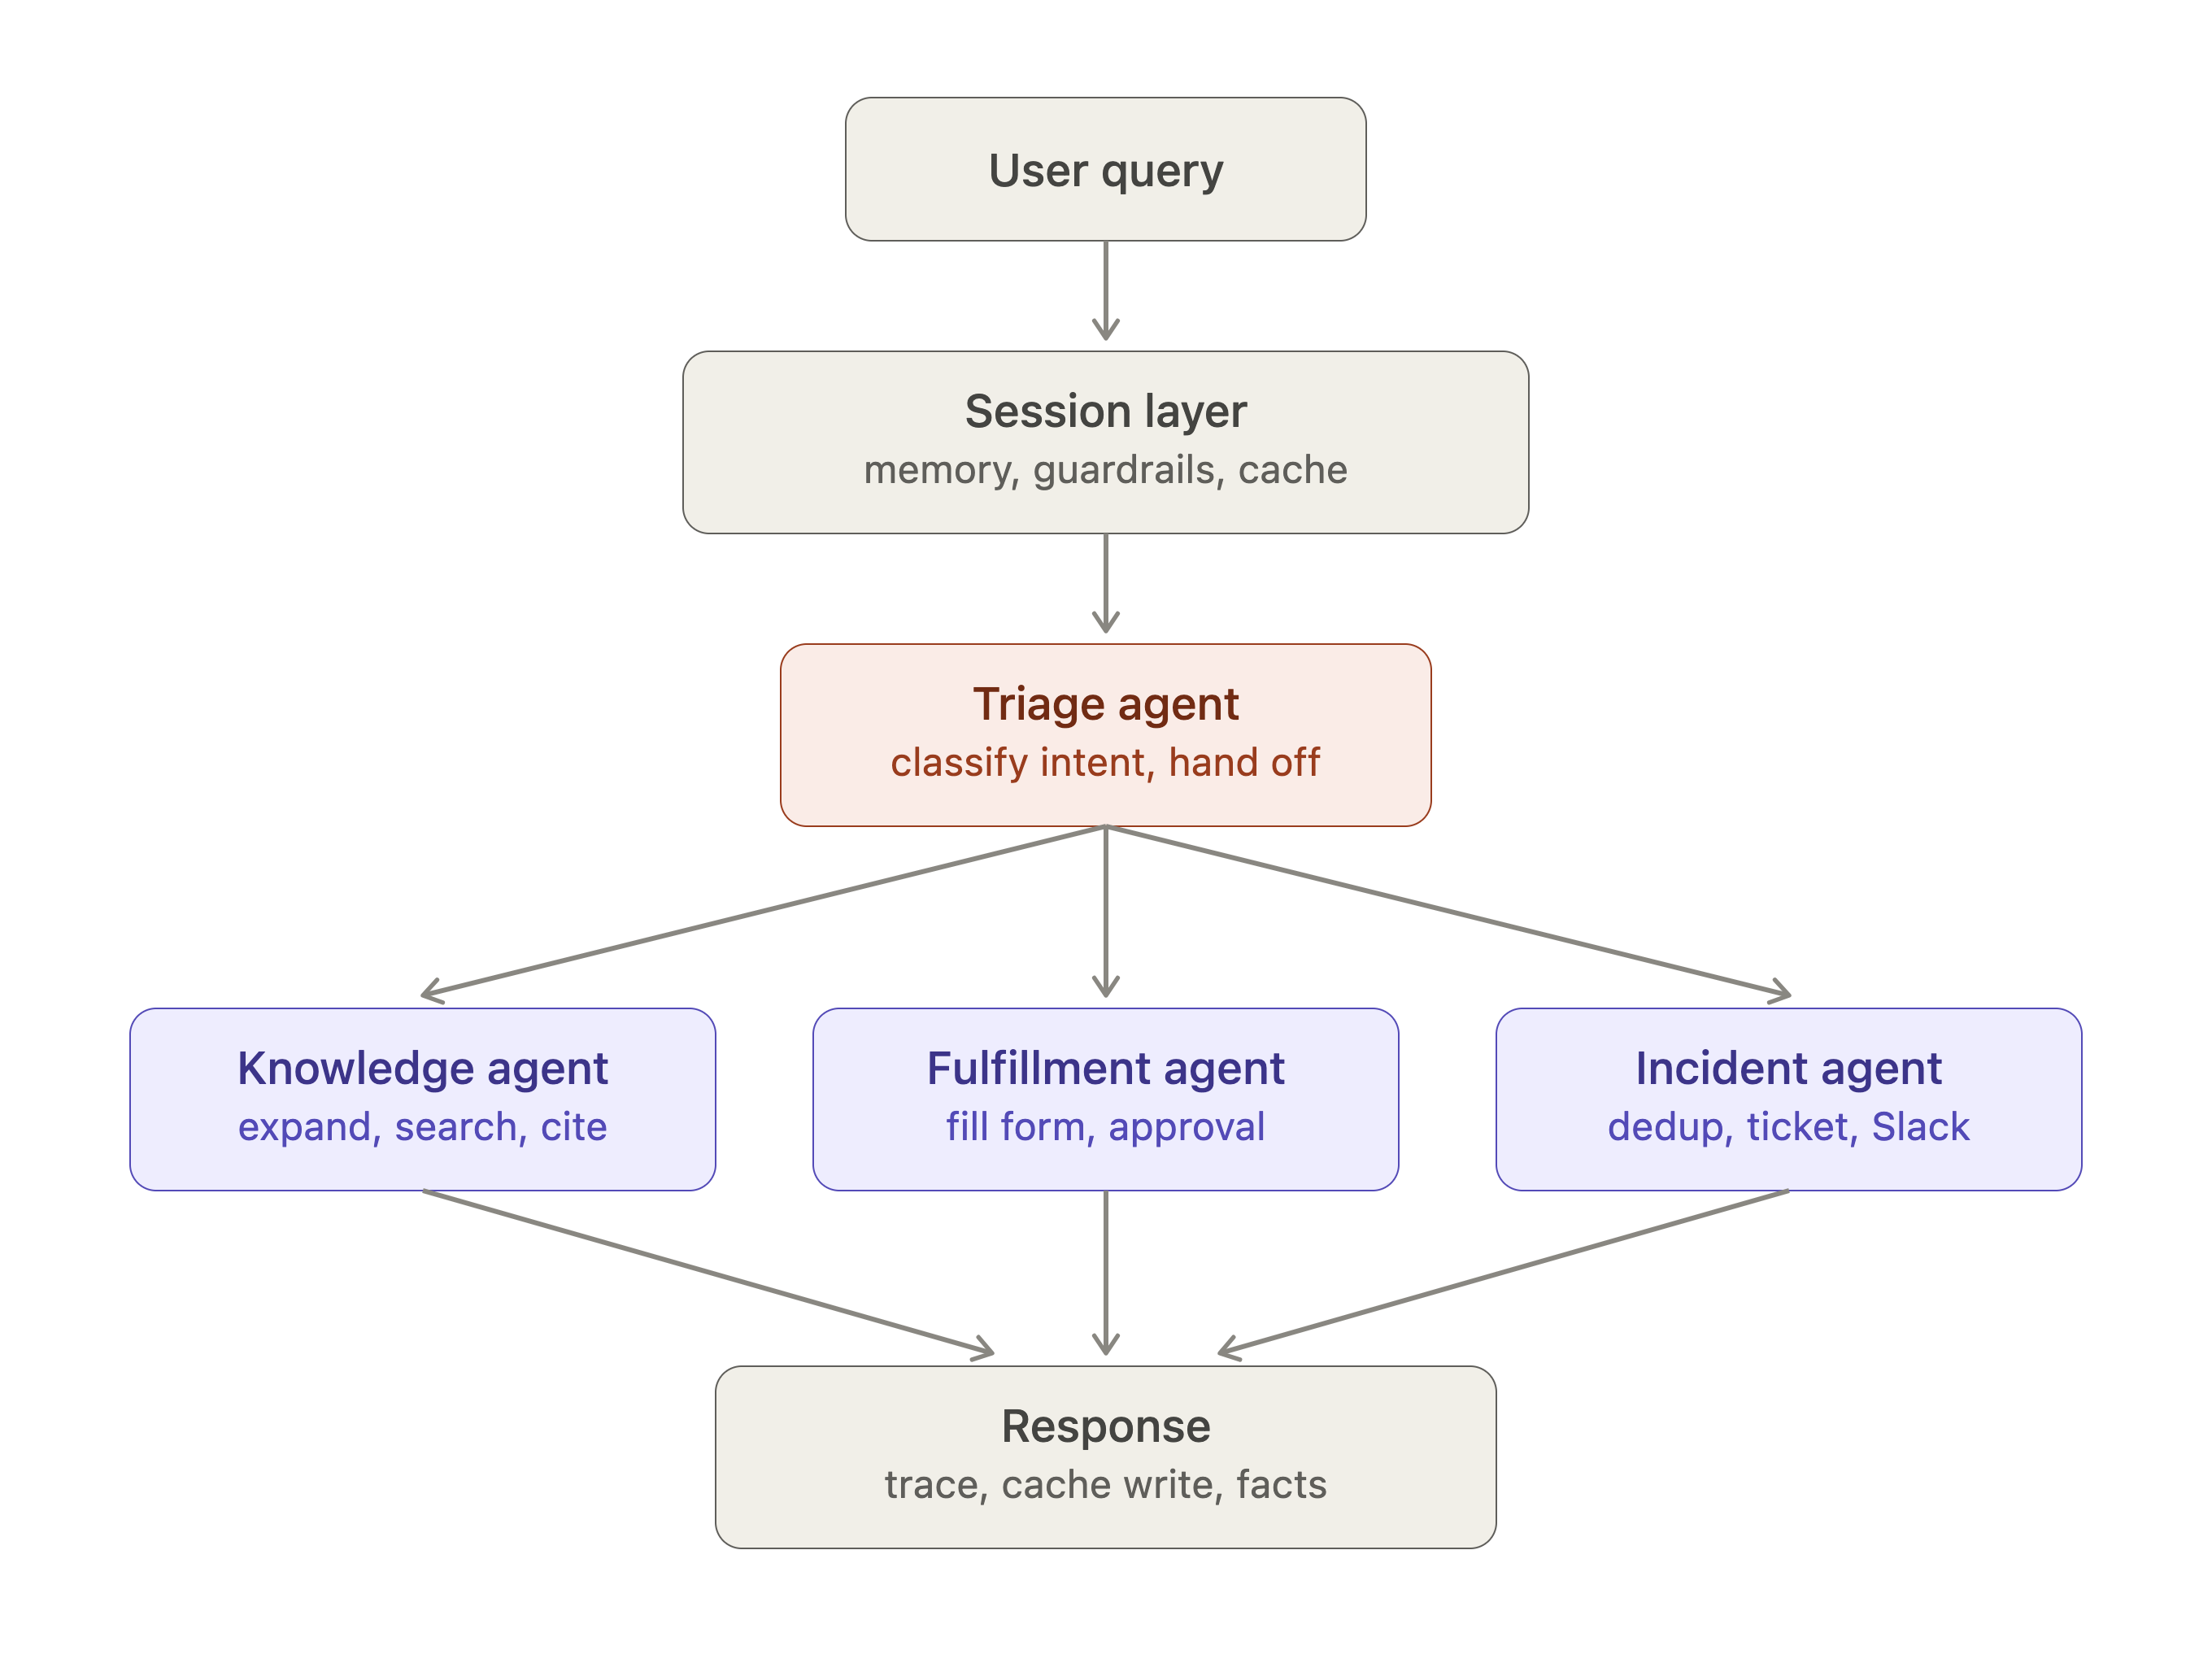
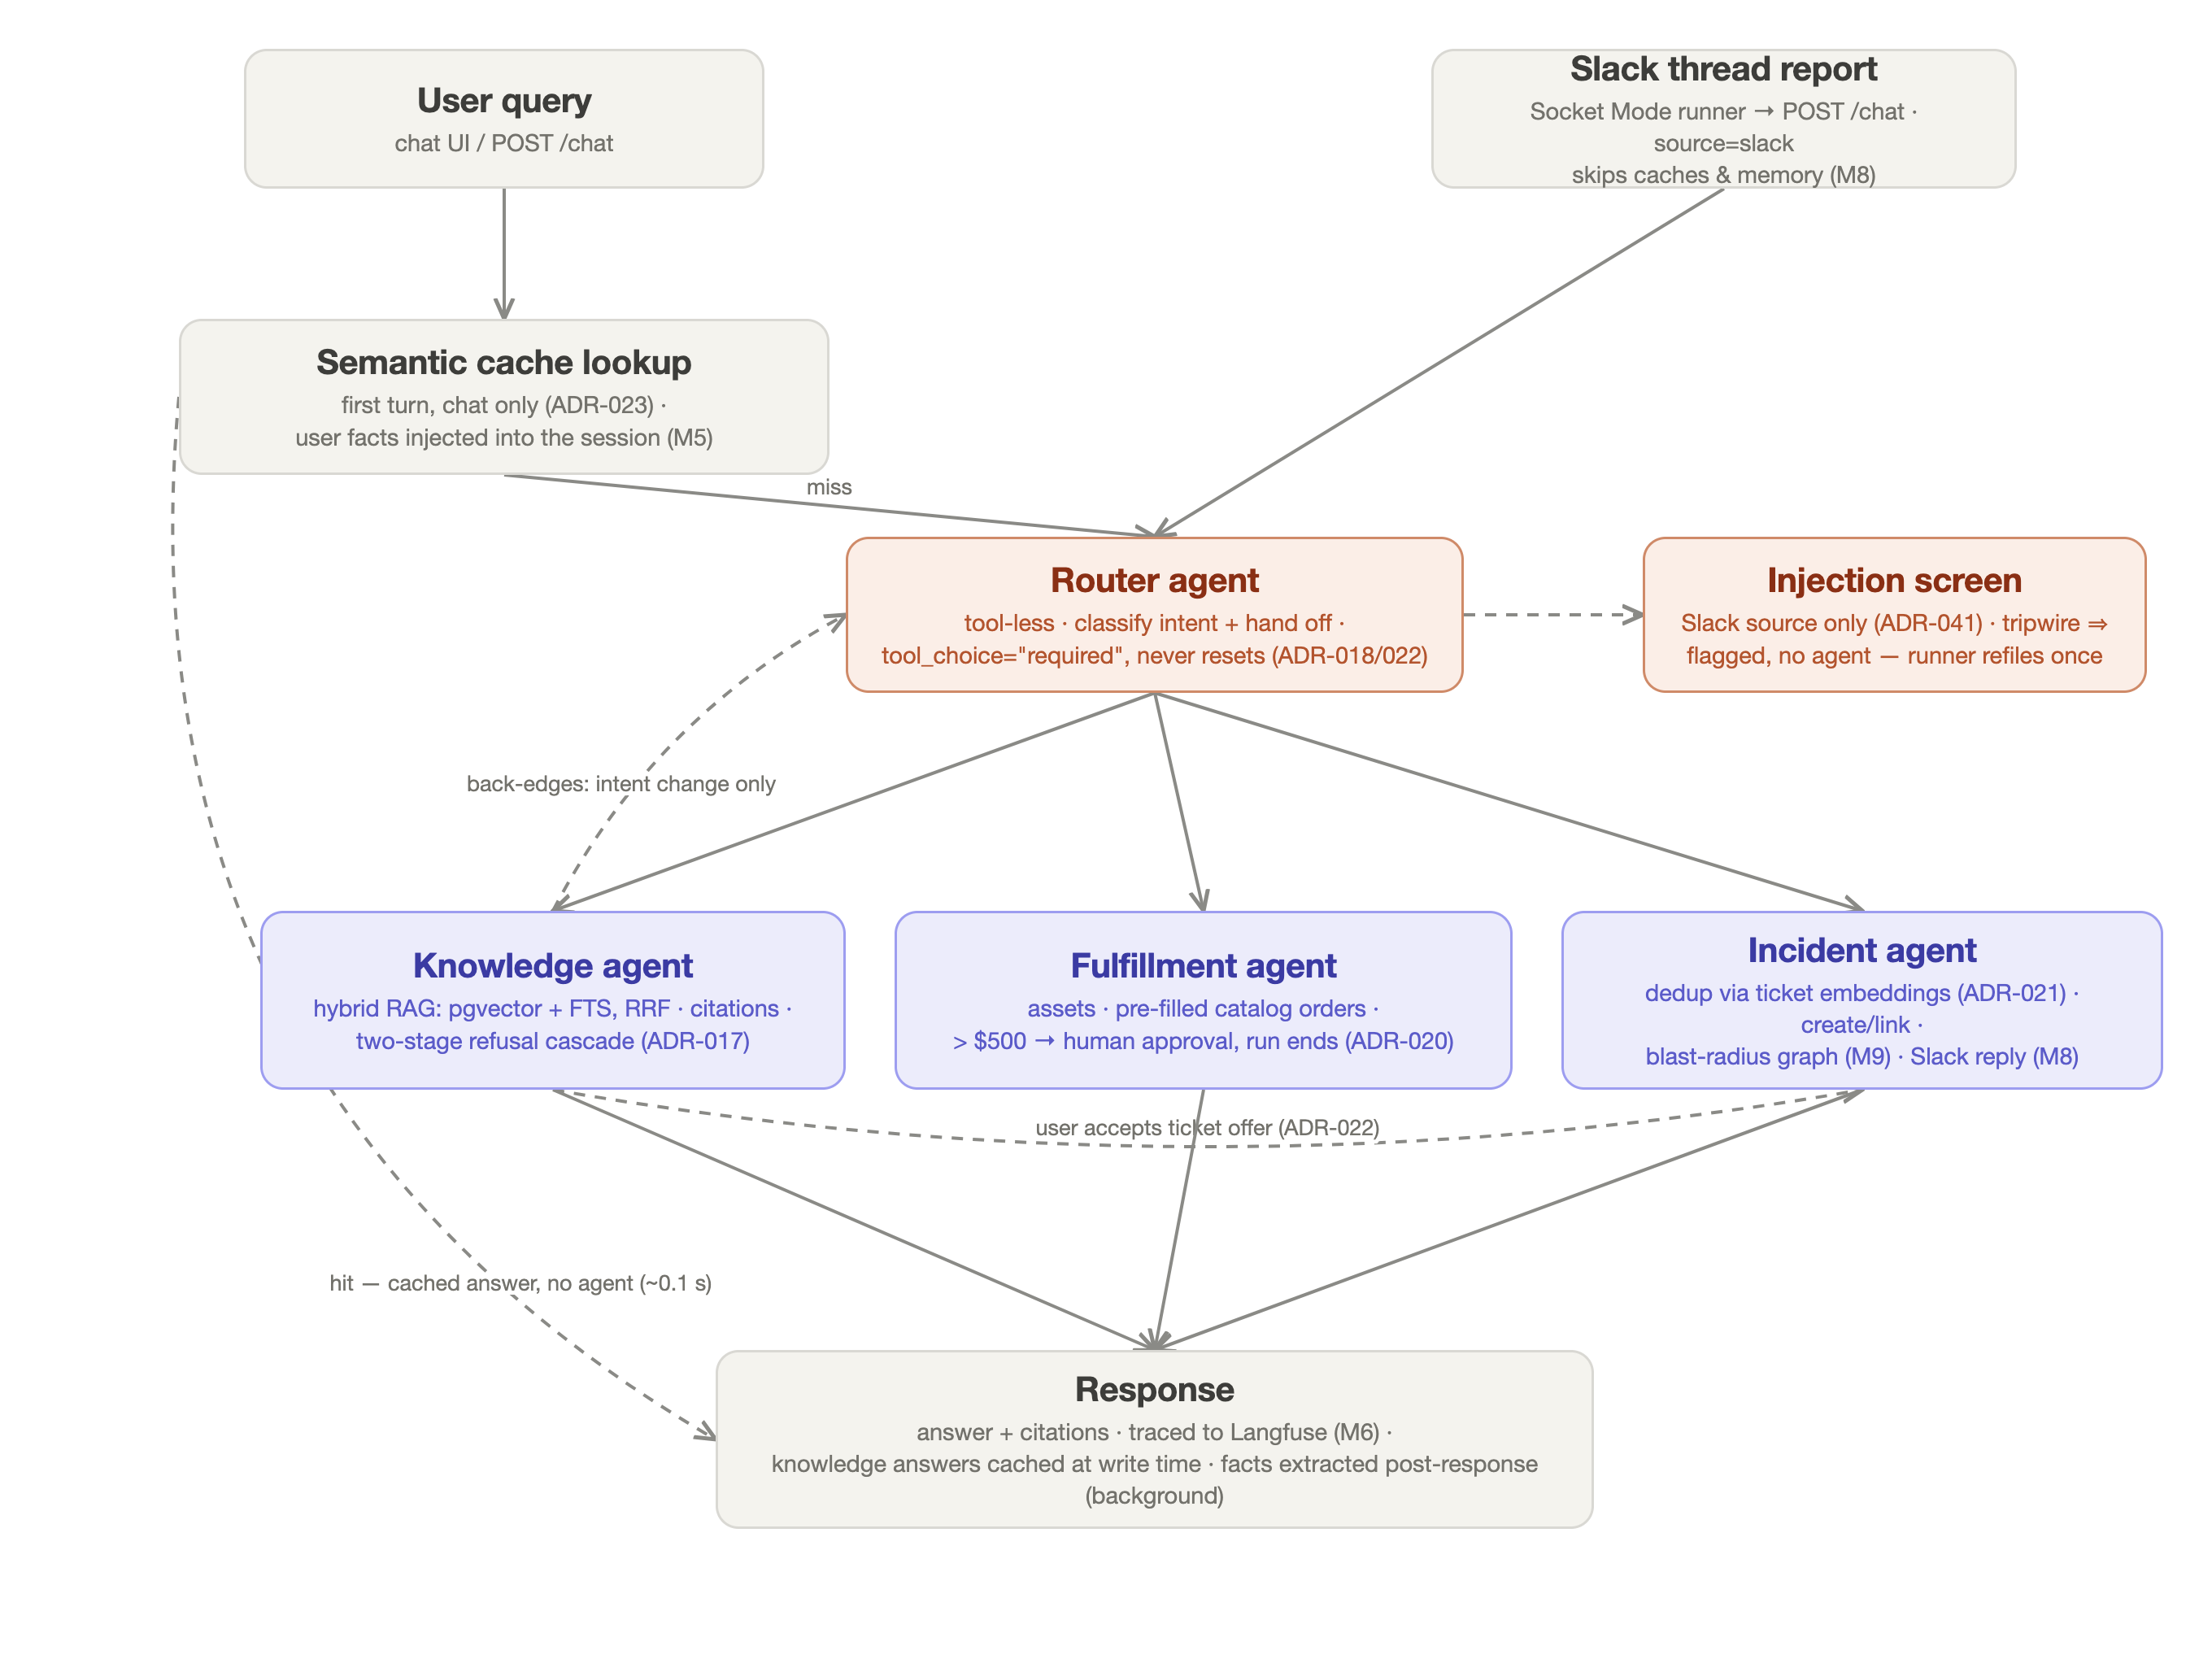
Refresh the two architecture diagrams to the finished system; commit their HTML sources
The Jul 3 sketches predated every milestone. Corrected: triage→router rename;
ADR-022 cross-agent edges + the semantic-cache short-circuit path; injection
screen shown on the router, Slack-gated (ADR-041); sessions in Postgres, not
Redis (M5, ADR-030); M8 surfaces added (approvals UI, Slack runner, MCP server
beside the API hitting the same plain tools); Neo4j demoted to optional synced
projection (ADR-037); Langfuse box states the real M6 mechanism.

Each PNG now has a committed HTML source next to it (database_erd.html
pattern); the headless-Chrome render command is in each file's header comment.

diff --git a/design/itsm_ai_system_architecture.html b/design/itsm_ai_system_architecture.html
@@ -1,0 +1,167 @@
+<!-- Source for itsm_ai_system_architecture.png (M6 closeout refresh — the Jul 3 sketch
+     predated every milestone). Render:
+       "/Applications/Google Chrome.app/Contents/MacOS/Google Chrome" --headless=new \
+         --screenshot=design/itsm_ai_system_architecture.png --window-size=1360,1460 \
+         --force-device-scale-factor=2 --hide-scrollbars --default-background-color=FFFFFFFF \
+         file://$PWD/design/itsm_ai_system_architecture.html
+     Corrections this refresh bakes in: sessions live in POSTGRES not Redis (M5, ADR-030);
+     M8 surfaces exist (approvals UI, Slack runner, MCP server beside — not behind — the API);
+     Neo4j is an OPTIONAL synced projection, the CMDB graph itself is Postgres (ADR-037);
+     "triage" is the router; Langfuse is wired for real (M6, ADR-042). -->
+<meta charset="utf-8">
+<style>
+  body { margin: 0; background: #ffffff;
+         font-family: "Anthropic Sans", -apple-system, "Helvetica Neue", sans-serif; }
+  #canvas { position: relative; width: 1360px; height: 1460px; }
+  svg#wires { position: absolute; inset: 0; width: 100%; height: 100%; z-index: 0; }
+  .node { position: absolute; box-sizing: border-box; z-index: 1; border-radius: 14px;
+          border: 1.5px solid; padding: 12px 18px; text-align: center;
+          display: flex; flex-direction: column; justify-content: center; }
+  .node b { font-size: 20px; letter-spacing: -0.01em; }
+  .node span { font-size: 14px; line-height: 1.35; margin-top: 4px; }
+  .neutral { background: #f4f3ee; border-color: #d9d8d3; }
+  .neutral b { color: #3d3d3a; } .neutral span { color: #73726c; }
+  .accent  { background: #fbeee7; border-color: #cf8a68; }
+  .accent b { color: #8a2f14; } .accent span { color: #b3542e; }
+  .purple  { background: #ececfb; border-color: #9d9df0; }
+  .purple b { color: #3b3ba3; } .purple span { color: #5b5bc9; }
+  .green   { background: #e4f5ec; border-color: #83c9a7; }
+  .green b { color: #17593a; } .green span { color: #2e7d54; }
+  #agentlayer { position: absolute; z-index: 0; border: 1.5px dashed #c9c8c2; border-radius: 18px; }
+  #agentlayer label { position: absolute; top: 12px; width: 100%; text-align: center;
+                      font-size: 15px; color: #8a8a86; }
+</style>
+
+<div id="canvas">
+  <svg id="wires"></svg>
+
+  <!-- clients -->
+  <div class="node neutral" id="chatui" style="left:40px; top:30px; width:290px; height:92px;">
+    <b>Chat UI</b><span>Streamlit :8501 · session per browser,<br>acting-user picker</span></div>
+  <div class="node neutral" id="approvals" style="left:370px; top:30px; width:290px; height:92px;">
+    <b>Approvals UI</b><span>Streamlit :8502 · human approve/reject<br>for orders &gt; $500 (M2 HITL)</span></div>
+  <div class="node neutral" id="slackrunner" style="left:700px; top:30px; width:300px; height:92px;">
+    <b>Slack runner</b><span>Socket Mode (M8) · pure HTTP client of
+    /chat · fail-closed email→user identity</span></div>
+  <div class="node neutral" id="mcpclients" style="left:1040px; top:30px; width:280px; height:92px;">
+    <b>MCP clients</b><span>Claude Desktop et al.<br>via mcp-remote + bearer token</span></div>
+
+  <!-- backend -->
+  <div class="node neutral" id="api" style="left:150px; top:210px; width:700px; height:100px;">
+    <b>FastAPI backend</b><span>/chat · /approvals · /identity/resolve · /cache/stats — identity from
+    ChatContext, never an LLM arg (ADR-039) ·<br>semantic-cache pre-check before any agent (chat-only, ADR-023) · Postgres-backed sessions (M5)</span></div>
+  <div class="node neutral" id="mcpserver" style="left:990px; top:210px; width:330px; height:100px;">
+    <b>MCP server :8090</b><span>separate process (M8) · bearer token → acting user ·
+    read/create-only tool surface (ADR-040)</span></div>
+
+  <!-- agent layer -->
+  <div id="agentlayer" style="left:100px; top:380px; width:800px; height:400px;">
+    <label>Agent layer — OpenAI Agents SDK · gpt-5-mini via LiteLLM</label></div>
+  <div class="node accent" id="router" style="left:310px; top:430px; width:380px; height:92px;">
+    <b>Router agent</b><span>tool-less · classifies + hands off (ADR-003) ·<br>Slack-gated injection guardrail (ADR-041)</span></div>
+  <div class="node purple" id="knowledge" style="left:130px; top:620px; width:230px; height:110px;">
+    <b>Knowledge</b><span>hybrid search,<br>citations, refusal cascade</span></div>
+  <div class="node purple" id="fulfillment" style="left:390px; top:620px; width:230px; height:110px;">
+    <b>Fulfillment</b><span>orders + HITL<br>approvals</span></div>
+  <div class="node purple" id="incident" style="left:650px; top:620px; width:230px; height:110px;">
+    <b>Incident</b><span>tickets, dedup,<br>impact graph, Slack reply</span></div>
+
+  <!-- tools -->
+  <div class="node neutral" id="tools" style="left:280px; top:860px; width:640px; height:96px;">
+    <b>Deterministic tools — the only DB path (ADR-004)</b><span>search · tickets · orders · assets ·
+    dependency graph (M9) · Slack reply (M8) ·<br>identity/ownership guards = the real security backstop (ADR-041)</span></div>
+
+  <!-- data stores -->
+  <div class="node green" id="postgres" style="left:60px; top:1050px; width:400px; height:110px;">
+    <b>Postgres + pgvector</b><span>relational + vectors + FTS in one DB ·<br>agent sessions (M5, ADR-030) ·
+    CMDB graph: cis + dependencies, recursive CTE (M9)</span></div>
+  <div class="node green" id="redis" style="left:510px; top:1050px; width:380px; height:110px;">
+    <b>Redis</b><span>embedding / semantic / response caches + hit counters (M3) ·
+    cost accumulator (M6) ·<br>degrades silently — an optimization, never a dependency</span></div>
+  <div class="node green" id="neo4j" style="left:940px; top:1050px; width:380px; height:110px;">
+    <b>Neo4j (optional)</b><span>parity-tested alternate graph backend (ADR-037) ·
+    synced projection — Postgres stays source of truth</span></div>
+
+  <!-- observability / CI -->
+  <div class="node neutral" id="langfuse" style="left:230px; top:1290px; width:420px; height:100px;">
+    <b>Langfuse</b><span>M6 (ADR-042/043): Agents SDK trace processor → spans, tags,
+    cost, eval datasets ·<br>verified no-op when keys are unset</span></div>
+  <div class="node neutral" id="gha" style="left:710px; top:1290px; width:420px; height:100px;">
+    <b>GitHub Actions</b><span>CI: lint + 161 tests + eval-subset gate (keyless) ·
+    nightly: all 7 suites ·<br>deploy workflow inert until armed (ADR-029)</span></div>
+</div>
+
+<script>
+const edges = [
+  { from: "chatui",      to: "api" },
+  { from: "approvals",   to: "api" },
+  { from: "slackrunner", to: "api",       label: "source=slack" },
+  { from: "mcpclients",  to: "mcpserver" },
+  { from: "api",         to: "router" },
+  { from: "router",      to: "knowledge" },
+  { from: "router",      to: "fulfillment" },
+  { from: "router",      to: "incident" },
+  { from: "knowledge",   to: "tools" },
+  { from: "fulfillment", to: "tools" },
+  { from: "incident",    to: "tools" },
+  { from: "mcpserver",   to: "tools",     fromSide: "bottom", toSide: "right",
+    bend: -60, label: "same plain functions — no agents, never /chat" },
+  { from: "tools",       to: "postgres" },
+  { from: "tools",       to: "redis" },
+  { from: "tools",       to: "neo4j",     dash: true, label: "GRAPH_BACKEND=neo4j" },
+  { from: "postgres",    to: "neo4j",     fromSide: "bottom", toSide: "bottom",
+    bend: 70, dash: true, label: "python -m graph.sync_neo4j (idempotent projection)" },
+  { from: "router",      to: "langfuse",  fromSide: "left", toSide: "top",
+    bend: 150, dash: true, labelT: 0.92, label: "every agent run → spans (background export)" },
+];
+
+const svg = document.getElementById("wires");
+const NS = "http://www.w3.org/2000/svg";
+svg.innerHTML = `<defs><marker id="arr" viewBox="0 0 10 10" refX="9" refY="5"
+  markerWidth="7" markerHeight="7" orient="auto-start-reverse">
+  <path d="M 0 1 L 9 5 L 0 9" fill="none" stroke="#8a8a86" stroke-width="1.8"/></marker></defs>`;
+
+function anchor(id, side) {
+  const r = document.getElementById(id);
+  const x = r.offsetLeft, y = r.offsetTop, w = r.offsetWidth, h = r.offsetHeight;
+  if (side === "top")    return [x + w / 2, y];
+  if (side === "bottom") return [x + w / 2, y + h];
+  if (side === "left")   return [x, y + h / 2];
+  if (side === "right")  return [x + w, y + h / 2];
+}
+function autoSides(a, b) {
+  const ra = document.getElementById(a), rb = document.getElementById(b);
+  return (rb.offsetTop >= ra.offsetTop + ra.offsetHeight) ? ["bottom", "top"] :
+         (ra.offsetTop >= rb.offsetTop + rb.offsetHeight) ? ["top", "bottom"] :
+         (ra.offsetLeft < rb.offsetLeft) ? ["right", "left"] : ["left", "right"];
+}
+for (const e of edges) {
+  const [autoFrom, autoTo] = autoSides(e.from, e.to);
+  const p1 = anchor(e.from, e.fromSide || autoFrom);
+  const p2 = anchor(e.to,   e.toSide   || autoTo);
+  const mx = (p1[0] + p2[0]) / 2, my = (p1[1] + p2[1]) / 2;
+  const dx = p2[0] - p1[0], dy = p2[1] - p1[1], len = Math.hypot(dx, dy) || 1;
+  const bend = e.bend || 0;
+  const cx = mx + (-dy / len) * bend, cy = my + (dx / len) * bend;
+  const path = document.createElementNS(NS, "path");
+  path.setAttribute("d", `M ${p1[0]} ${p1[1]} Q ${cx} ${cy} ${p2[0]} ${p2[1]}`);
+  path.setAttribute("fill", "none");
+  path.setAttribute("stroke", "#8a8a86");
+  path.setAttribute("stroke-width", "2");
+  path.setAttribute("marker-end", "url(#arr)");
+  if (e.dash) path.setAttribute("stroke-dasharray", "7 6");
+  svg.appendChild(path);
+  if (e.label) {
+    const t = document.createElementNS(NS, "text");
+    const tt = e.labelT ?? 0.5, u = 1 - tt;
+    const lx = u * u * p1[0] + 2 * u * tt * cx + tt * tt * p2[0];
+    const ly = u * u * p1[1] + 2 * u * tt * cy + tt * tt * p2[1];
+    t.setAttribute("x", lx); t.setAttribute("y", ly - 7);
+    t.setAttribute("text-anchor", "middle");
+    t.setAttribute("style",
+      "font-size:13px; fill:#73726c; paint-order:stroke; stroke:#ffffff; stroke-width:5px;");
+    t.textContent = e.label;
+    svg.appendChild(t);
+  }
+}
+</script>

diff --git a/design/agent_handoff_workflow.html b/design/agent_handoff_workflow.html
@@ -1,0 +1,125 @@
+<!-- Source for agent_handoff_workflow.png (M6 closeout refresh — the Jul 3 sketch predated
+     every milestone). Render:
+       "/Applications/Google Chrome.app/Contents/MacOS/Google Chrome" --headless=new \
+         --screenshot=design/agent_handoff_workflow.png --window-size=1360,1020 \
+         --force-device-scale-factor=2 --hide-scrollbars --default-background-color=FFFFFFFF \
+         file://$PWD/design/agent_handoff_workflow.html
+     What it must stay true to (the test-pinned graph, ADR-003/017/020/022/023/041):
+     router renamed from "triage" · semantic-cache short-circuit before any agent ·
+     knowledge→incident edge + specialist→router back-edges · slack-gated injection screen. -->
+<meta charset="utf-8">
+<style>
+  body { margin: 0; background: #ffffff;
+         font-family: "Anthropic Sans", -apple-system, "Helvetica Neue", sans-serif; }
+  #canvas { position: relative; width: 1360px; height: 1020px; }
+  svg#wires { position: absolute; inset: 0; width: 100%; height: 100%; z-index: 0; }
+  .node { position: absolute; box-sizing: border-box; z-index: 1; border-radius: 14px;
+          border: 1.5px solid; padding: 14px 20px; text-align: center;
+          display: flex; flex-direction: column; justify-content: center; }
+  .node b { font-size: 21px; letter-spacing: -0.01em; }
+  .node span { font-size: 14.5px; line-height: 1.35; margin-top: 4px; }
+  .neutral { background: #f4f3ee; border-color: #d9d8d3; }
+  .neutral b { color: #3d3d3a; } .neutral span { color: #73726c; }
+  .accent  { background: #fbeee7; border-color: #cf8a68; }
+  .accent b { color: #8a2f14; } .accent span { color: #b3542e; }
+  .purple  { background: #ececfb; border-color: #9d9df0; }
+  .purple b { color: #3b3ba3; } .purple span { color: #5b5bc9; }
+</style>
+
+<div id="canvas">
+  <svg id="wires"></svg>
+
+  <div class="node neutral" id="user"  style="left:150px;  top:30px;  width:320px; height:86px;">
+    <b>User query</b><span>chat UI / POST /chat</span></div>
+  <div class="node neutral" id="slack" style="left:880px; top:30px;  width:360px; height:86px;">
+    <b>Slack thread report</b><span>Socket Mode runner → POST /chat · source=slack<br>skips caches &amp; memory (M8)</span></div>
+
+  <div class="node neutral" id="cache" style="left:110px;  top:196px; width:400px; height:96px;">
+    <b>Semantic cache lookup</b><span>first turn, chat only (ADR-023) ·<br>user facts injected into the session (M5)</span></div>
+
+  <div class="node accent" id="router" style="left:520px; top:330px; width:380px; height:96px;">
+    <b>Router agent</b><span>tool-less · classify intent + hand off ·<br>tool_choice="required", never resets (ADR-018/022)</span></div>
+  <div class="node accent" id="guard" style="left:1010px; top:330px; width:310px; height:96px;">
+    <b>Injection screen</b><span>Slack source only (ADR-041) · tripwire ⇒<br>flagged, no agent — runner refiles once</span></div>
+
+  <div class="node purple" id="knowledge" style="left:160px; top:560px; width:360px; height:110px;">
+    <b>Knowledge agent</b><span>hybrid RAG: pgvector + FTS, RRF · citations ·<br>two-stage refusal cascade (ADR-017)</span></div>
+  <div class="node purple" id="fulfillment" style="left:550px; top:560px; width:380px; height:110px;">
+    <b>Fulfillment agent</b><span>assets · pre-filled catalog orders ·<br>&gt; $500 → human approval, run ends (ADR-020)</span></div>
+  <div class="node purple" id="incident" style="left:960px; top:560px; width:370px; height:110px;">
+    <b>Incident agent</b><span>dedup via ticket embeddings (ADR-021) · create/link ·<br>blast-radius graph (M9) · Slack reply (M8)</span></div>
+
+  <div class="node neutral" id="response" style="left:440px; top:830px; width:540px; height:110px;">
+    <b>Response</b><span>answer + citations · traced to Langfuse (M6) ·<br>knowledge answers cached at write time · facts extracted post-response (background)</span></div>
+</div>
+
+<script>
+const edges = [
+  { from: "user",        to: "cache",       label: "" },
+  { from: "slack",       to: "router",      label: "" },
+  { from: "cache",       to: "router",      label: "miss" },
+  { from: "cache",       to: "response",    fromSide: "left", toSide: "left",
+    bend: 230, dash: true, labelT: 0.82, label: "hit — cached answer, no agent (~0.1 s)" },
+  { from: "router",      to: "guard",       fromSide: "right", toSide: "left", dash: true, label: "" },
+  { from: "router",      to: "knowledge",   label: "" },
+  { from: "router",      to: "fulfillment", label: "" },
+  { from: "router",      to: "incident",    label: "" },
+  { from: "knowledge",   to: "incident",    fromSide: "bottom", toSide: "bottom",
+    bend: 70, dash: true, label: "user accepts ticket offer (ADR-022)" },
+  { from: "knowledge",   to: "router",      fromSide: "top", toSide: "left",
+    bend: -40, dash: true, labelT: 0.3, label: "back-edges: intent change only" },
+  { from: "knowledge",   to: "response",    label: "" },
+  { from: "fulfillment", to: "response",    label: "" },
+  { from: "incident",    to: "response",    label: "" },
+];
+
+const svg = document.getElementById("wires");
+const NS = "http://www.w3.org/2000/svg";
+svg.innerHTML = `<defs><marker id="arr" viewBox="0 0 10 10" refX="9" refY="5"
+  markerWidth="7" markerHeight="7" orient="auto-start-reverse">
+  <path d="M 0 1 L 9 5 L 0 9" fill="none" stroke="#8a8a86" stroke-width="1.8"/></marker></defs>`;
+
+function anchor(id, side) {
+  const r = document.getElementById(id);
+  const x = r.offsetLeft, y = r.offsetTop, w = r.offsetWidth, h = r.offsetHeight;
+  if (side === "top")    return [x + w / 2, y];
+  if (side === "bottom") return [x + w / 2, y + h];
+  if (side === "left")   return [x, y + h / 2];
+  if (side === "right")  return [x + w, y + h / 2];
+}
+function autoSides(a, b) {
+  const ra = document.getElementById(a), rb = document.getElementById(b);
+  return (rb.offsetTop >= ra.offsetTop + ra.offsetHeight) ? ["bottom", "top"] :
+         (ra.offsetTop >= rb.offsetTop + rb.offsetHeight) ? ["top", "bottom"] :
+         (ra.offsetLeft < rb.offsetLeft) ? ["right", "left"] : ["left", "right"];
+}
+for (const e of edges) {
+  const [autoFrom, autoTo] = autoSides(e.from, e.to);
+  const p1 = anchor(e.from, e.fromSide || autoFrom);
+  const p2 = anchor(e.to,   e.toSide   || autoTo);
+  const mx = (p1[0] + p2[0]) / 2, my = (p1[1] + p2[1]) / 2;
+  const dx = p2[0] - p1[0], dy = p2[1] - p1[1], len = Math.hypot(dx, dy) || 1;
+  const bend = e.bend || 0;
+  const cx = mx + (-dy / len) * bend, cy = my + (dx / len) * bend;
+  const path = document.createElementNS(NS, "path");
+  path.setAttribute("d", `M ${p1[0]} ${p1[1]} Q ${cx} ${cy} ${p2[0]} ${p2[1]}`);
+  path.setAttribute("fill", "none");
+  path.setAttribute("stroke", "#8a8a86");
+  path.setAttribute("stroke-width", "2");
+  path.setAttribute("marker-end", "url(#arr)");
+  if (e.dash) path.setAttribute("stroke-dasharray", "7 6");
+  svg.appendChild(path);
+  if (e.label) {
+    const t = document.createElementNS(NS, "text");
+    const tt = e.labelT ?? 0.5, u = 1 - tt;
+    const lx = u * u * p1[0] + 2 * u * tt * cx + tt * tt * p2[0];
+    const ly = u * u * p1[1] + 2 * u * tt * cy + tt * tt * p2[1];
+    t.setAttribute("x", lx); t.setAttribute("y", ly - 7);
+    t.setAttribute("text-anchor", "middle");
+    t.setAttribute("style",
+      "font-size:13.5px; fill:#73726c; paint-order:stroke; stroke:#ffffff; stroke-width:5px;");
+    t.textContent = e.label;
+    svg.appendChild(t);
+  }
+}
+</script>

diff --git a/CLAUDE.md b/CLAUDE.md
@@ -99,7 +99,7 @@ An AI-powered ITSM service desk (mini ServiceNow) — a **portfolio project**. A
 - **Local dev is fully set up:** `.venv` (Python 3.12) with the complete `-e ".[dev]"` install (2026-07-05: the M0-era `cryptography` Rust-build failure resolved itself once pip was current; installed with `--only-binary cryptography` as a safety net, keep that flag if reinstalling). 30 tests pass (`make test`; DB-backed ones auto-skip if Postgres is down), ruff clean — incl. `tests/test_agents.py`, fast LLM-free assertions pinning the ADR-018 config (tool_choice/prefix) + ADR-003 router-is-tool-less. `.env` exists with a working `OPENAI_API_KEY` (model vars are blank → config defaults: gpt-5-mini + text-embedding-3-small). Docker Postgres+Redis running; DB migrated + seeded + ingested.
 - Repo is live at **github.com/lifenyan/agent-desk** (PUBLIC), branch `main`, first 2 commits pushed 2026-07-07 (M0–M2, M3) by the user. `ignore/` + `.env` verified excluded. `gh` CLI installed + authenticated as `lifenyan`; `OPENAI_API_KEY` is set as an Actions repo secret (verified 2026-07-07).
 - Renamed from `itsm-ai` → `agentdesk`; `design/` has the diagrams; `ignore/` is git-ignored scratch (holds `LEARNING_M{0..5,8,9}.md`, `M{0..9}_PROMPT.md`, `refusal_threshold_sweep.md`, and `ignore/tem/` with the M9 graph-baseline evidence `m9_graph_baseline_run{1,2,3}.{json,log}`, the M2 evidence scripts `m2_dedup_sweep.py` / `m2_throwaway_react.py` / `m2_graph_smoke.py` / `m2_e2e_acceptance.py`, the M3 evidence `m3_semantic_cache_demo.py` + `m3_demo_output.txt`, the M5 live-loop evidence `m5_memory_smoke.py`, and the M8 evidence `m8_mcp_smoke.py` + `m8_offtopic_measurement.py` (+ saved output) + `m8_slack_baseline_run{1..7}.{json,log}` + `m8_e2e_regression.{json,log}`; the M2/M3 acceptance scripts are formalized as the M4 e2e/dedup suites, the M5 smoke as the e2e memory/restart flows. The ADR-019 sqlite session file was DELETED in M5 — sessions live in Postgres now). `LEARNING_M1.md` §10–14 = Agents-SDK Q&A; `LEARNING_M{2..5}.md` = the per-milestone "what you should understand" writeups.
-- `DECISIONS.md` has **45** ADRs (M6 added: ADR-042 Langfuse Cloud + SDK-trace-processor bridge + empty-keys no-op, ADR-043 tag schema/session join/cache-hit traces/eval datasets, ADR-044 CACHES_DISABLED A/B + slice choice, ADR-045 Redis-accumulated per-conversation cost alert. M8 added: ADR-038 Socket Mode + runner-as-pure-HTTP-client, ADR-039 fail-closed external identity + thread coords as trusted context + the sink seam, ADR-040 one plain layer/two adapters + read-create-only MCP surface, ADR-041 layered guardrails — tool checks as the real backstop, flag-then-refile, off-topic screen measured and not wired. M9 added: ADR-035 CMDB modeling — generalized `cis` + `dependencies`, teams-as-nodes; ADR-036 the fair three-way comparison design + measured results; ADR-037 backend contract, Postgres default, when Neo4j earns its cost). Before M9 it had **34** ADRs (M1: ADR-016 chunking/ingest, ADR-017 two-stage refusal cascade, ADR-018 deterministic handoff via tool_choice; M2: ADR-019 session stopgap, ADR-020 hand-rolled HITL, ADR-021 dedup cascade, ADR-022 graph assembly + router never resets tool choice; M3: ADR-023 semantic cache — write-time read-only gate, first-turn session policy, measured 0.75 threshold; ADR-024 content-hash invalidation in ingest; ADR-025 response-cache scope; M4: ADR-026 floors in thresholds.toml + deterministic subset, ADR-027 e2e through the real HTTP contract, ADR-028 dedup gray-band eval + baseline, ADR-029 inert deploy workflow; M5: ADR-030 SDK SQLAlchemySession on Postgres with Alembic-owned schema, ADR-031 fact inject-as-session-item + post-response extraction + deterministic merge, ADR-032 e2e 6→18 with load-bearing dataset order + content-restoring cleanup, ADR-033 gpt-5 judge with committed rubric, ADR-034 cost/latency from SDK usage × committed prices + committed baseline). Data spec: `design/DATA_DICTIONARY.md` + `design/database_erd.png` (source of truth, both current).
+- `DECISIONS.md` has **45** ADRs (M6 added: ADR-042 Langfuse Cloud + SDK-trace-processor bridge + empty-keys no-op, ADR-043 tag schema/session join/cache-hit traces/eval datasets, ADR-044 CACHES_DISABLED A/B + slice choice, ADR-045 Redis-accumulated per-conversation cost alert. M8 added: ADR-038 Socket Mode + runner-as-pure-HTTP-client, ADR-039 fail-closed external identity + thread coords as trusted context + the sink seam, ADR-040 one plain layer/two adapters + read-create-only MCP surface, ADR-041 layered guardrails — tool checks as the real backstop, flag-then-refile, off-topic screen measured and not wired. M9 added: ADR-035 CMDB modeling — generalized `cis` + `dependencies`, teams-as-nodes; ADR-036 the fair three-way comparison design + measured results; ADR-037 backend contract, Postgres default, when Neo4j earns its cost). Before M9 it had **34** ADRs (M1: ADR-016 chunking/ingest, ADR-017 two-stage refusal cascade, ADR-018 deterministic handoff via tool_choice; M2: ADR-019 session stopgap, ADR-020 hand-rolled HITL, ADR-021 dedup cascade, ADR-022 graph assembly + router never resets tool choice; M3: ADR-023 semantic cache — write-time read-only gate, first-turn session policy, measured 0.75 threshold; ADR-024 content-hash invalidation in ingest; ADR-025 response-cache scope; M4: ADR-026 floors in thresholds.toml + deterministic subset, ADR-027 e2e through the real HTTP contract, ADR-028 dedup gray-band eval + baseline, ADR-029 inert deploy workflow; M5: ADR-030 SDK SQLAlchemySession on Postgres with Alembic-owned schema, ADR-031 fact inject-as-session-item + post-response extraction + deterministic merge, ADR-032 e2e 6→18 with load-bearing dataset order + content-restoring cleanup, ADR-033 gpt-5 judge with committed rubric, ADR-034 cost/latency from SDK usage × committed prices + committed baseline). Data spec: `design/DATA_DICTIONARY.md` + `design/database_erd.png` (source of truth, both current). The two architecture diagrams (`design/agent_handoff_workflow.png`, `design/itsm_ai_system_architecture.png`) were refreshed at M6 closeout — the Jul 3 sketches predated every milestone (triage→router rename, missing ADR-022 cross-edges and the cache short-circuit, Redis wrongly holding sessions, no M8 surfaces, Neo4j as a peer store) — and now have committed HTML sources next to them (ERD pattern: edit HTML, re-render via the headless-Chrome command in each file's header comment).
 
 **To resume locally:** `make db-up` → (if fresh volume) `make seed && make ingest` → `alembic upgrade head` (0002 sessions, 0003 CMDB graph) → `make dev` (API :8000 + UI :8501) and `make approvals` (:8502). M8 surfaces (both optional, everything runs without them): `make mcp` (:8090; needs `MCP_TOKENS=token=email` in .env — README "MCP server" section) and `make slack` (needs the two Slack tokens per SLACK_SETUP.md + the API up). Optional Neo4j (M9 Phase 2): `docker compose up -d neo4j` → `python -m graph.sync_neo4j` → `GRAPH_BACKEND=neo4j`; everything runs without it (postgres backend is the default). M6 observability: `make metrics` prints the headline table (needs LANGFUSE keys); `make langfuse-up` boots the OPTIONAL local Langfuse (UI :3000, dev keys pk/sk-lf-agentdesk-local, login [email redacted]/langfuse-local); with keys set, every `make eval` run is traced and retrieval/routing publish Langfuse dataset runs; the caching A/B = the two-arm procedure in `scripts/ab_caching_report.py`'s docstring. `make eval` is the FULL nightly-sized run (retrieval 40 + routing 30 + e2e 18 flows + dedup + quality + graph — pre-M9 measured 33–37 min and ≈$0.42; graph adds ≈9–10 min and ≈$0.15; slack adds ≈2.5–3 min, bills inside the spawned server like e2e). Cheap loops: `--suite retrieval` (LLM-light) or `make eval-subset` (the PR gate, ≈$0.10 measured). `make ci-local` mirrors the CI gates. Full stack in Docker: `docker compose up --build` (the app image was verified current 2026-07-07 post-PR#9; always `--build` after pulling — stale images were an M2-era trap and the M9-era image was silently broken until PR #9).
 